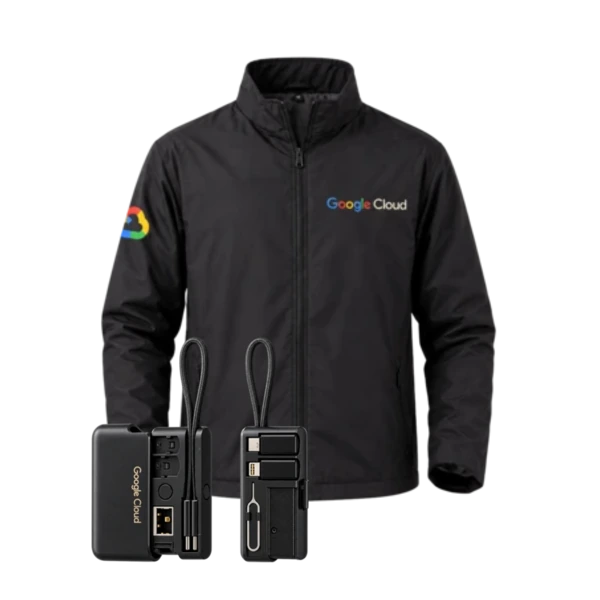
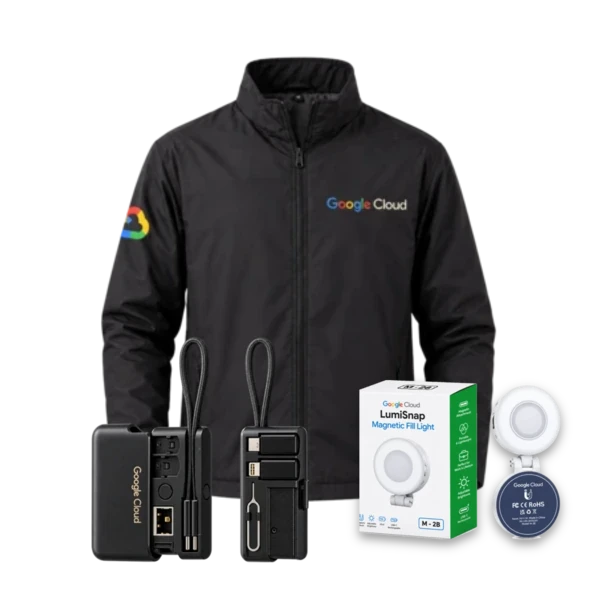
feat(prizes): tambahkan swag lumisnap magnetic fill light dan perbarui visual tier

Changed region(s): [[0.57, 0.63, 0.96, 0.93]]

diff --git a/src/pages/Prizes.tsx b/src/pages/Prizes.tsx
@@ -50,6 +50,7 @@ const SWAG_TIERS: SwagTier[] = [
     items: [
       { name: 'The Arcade Weather-Shield Jacket', desc: 'Jaket storm-ready berlogo Google Cloud' },
       { name: 'The Arcade PopUp Pro', desc: 'Toolkit saku USB-C multifungsi dan phone stand' },
+      { name: 'The Arcade LumiSnap Magnetic Fill Light', desc: 'Lampu fill light MagSafe dengan 3 temperatur warna' },
     ],
     hasMore: true,
   },
@@ -64,6 +65,7 @@ const SWAG_TIERS: SwagTier[] = [
     items: [
       { name: 'The Arcade Weather-Shield Jacket', desc: 'Jaket storm-ready premium Google Cloud' },
       { name: 'The Arcade PopUp Pro', desc: 'Toolkit saku serbaguna edisi terbatas' },
+      { name: 'The Arcade LumiSnap Magnetic Fill Light', desc: 'Lampu fill light MagSafe dengan 3 temperatur warna' },
     ],
     hasMore: true,
   },
@@ -123,6 +125,18 @@ const SPOTLIGHT_ITEMS: SpotlightItem[] = [
       'Material tahan angin dan hujan',
       'Kerah protektif risleting halus',
       'Bordir logo resmi Google Cloud',
+    ],
+  },
+  {
+    name: 'The Arcade LumiSnap Magnetic Fill Light',
+    tiers: 'Champion & Legend',
+    image: '/img/swags/item-lumisnap.webp',
+    forumUrl: 'https://discuss.google.dev/t/swag-drop-the-arcade-lumisnap-magnetic-fill-light/410531',
+    features: [
+      '3 temperatur warna (warm, neutral, cool) dengan precision dial',
+      'Mount magnetik MagSafe langsung plus adhesive magnetic ring',
+      'Artikulasi 360°, lengan lipat 45 mm, dan cermin framing bawaan',
+      'Kickstand meja lipat dan baterai 800 mAh USB-C',
     ],
   },
 ]

diff --git a/src/index.css b/src/index.css
@@ -1618,18 +1618,15 @@ button:focus-visible,input:focus-visible{outline:2px solid var(--gold);outline-o
 .tier-btn{margin-top:auto;padding:7px 10px;font-size:11.5px;font-weight:700;background:rgba(255,255,255,.06);border:1px solid var(--line);border-radius:7px;color:#dbe6fb;cursor:pointer;text-align:center;transition:background-color .14s,border-color .14s}
 .tier-btn:hover{background:rgba(255,255,255,.12);border-color:rgba(255,255,255,.28);color:#fff}
 
-/* Spotlight Row (5 columns desktop) */
+/* Spotlight Row (3 columns desktop, 2 tablet, 1 mobile) */
 .spotlight-row{
   display:grid;
-  grid-template-columns:repeat(5,minmax(0,1fr));
+  grid-template-columns:repeat(3,minmax(0,1fr));
   gap:12px;
   margin-top:14px;
   width:100%;
 }
-@media(max-width:960px){
-  .spotlight-row{grid-template-columns:repeat(3,minmax(0,1fr))}
-}
-@media(max-width:640px){
+@media(max-width:768px){
   .spotlight-row{grid-template-columns:repeat(2,minmax(0,1fr))}
 }
 @media(max-width:480px){
